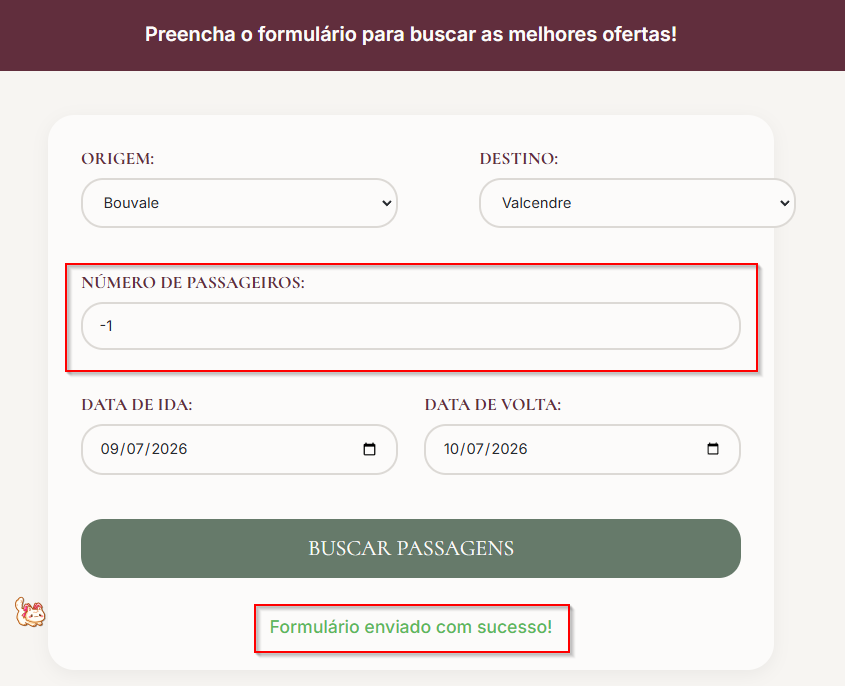
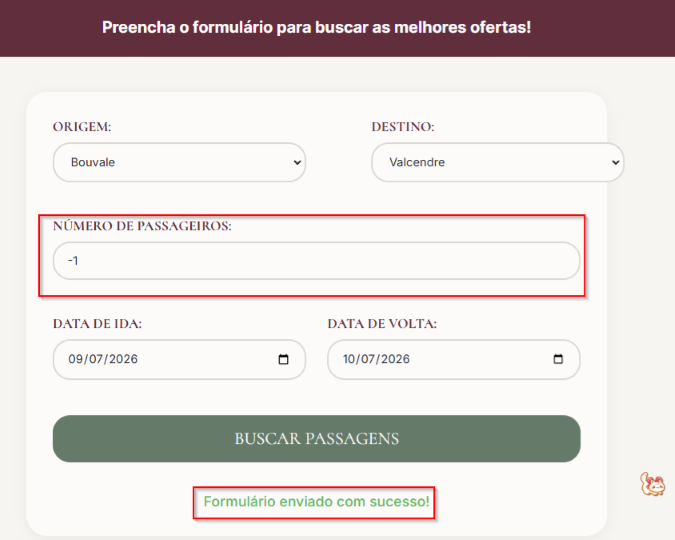
Ajusta formatacao do markdown e redimensiona imagens

diff --git a/docs/bisoutravel-qa-docs.md b/docs/bisoutravel-qa-docs.md
@@ -7,6 +7,7 @@ Jesse Rother 🌸 · [GitHub](https://github.com/pink-bowie)
 ## TC01 — Busca de passagens com dados válidos
 
 **ID:** TC01
+
 **Pré-condições:** Estar na página index.html
 
 **Passos:**
@@ -15,7 +16,9 @@ Jesse Rother 🌸 · [GitHub](https://github.com/pink-bowie)
 3. Clicar em "Buscar Passagens"
 
 **Resultado Esperado:** Mensagem "Formulário enviado com sucesso!" é exibida.
+
 **Resultado Obtido:** Mensagem "Formulário enviado com sucesso!" foi exibida.
+
 **Status:** ✅ Passou
 
 ---
@@ -23,6 +26,7 @@ Jesse Rother 🌸 · [GitHub](https://github.com/pink-bowie)
 ## TC02 — "Número de Passageiros" aceita valores negativos
 
 **ID:** TC02
+
 **Pré-condições:** Estar na página bugs.html
 
 **Passos:**
@@ -31,7 +35,9 @@ Jesse Rother 🌸 · [GitHub](https://github.com/pink-bowie)
 3. Clicar em "Buscar Passagens"
 
 **Resultado Esperado:** O campo não deve aceitar valores menores que 1. O formulário não deve ser enviado.
+
 **Resultado Obtido:** Mensagem "Formulário enviado com sucesso!" foi exibida com o valor -1 no campo.
+
 **Status:** ❌ Falhou
 
 ---
@@ -39,8 +45,11 @@ Jesse Rother 🌸 · [GitHub](https://github.com/pink-bowie)
 ## DR01 — "Número de Passageiros" aceita valores negativos
 
 **ID:** DR01
+
 **Ambiente:** Chrome 127, Resolução 1920x1080
+
 **Pré-condições:** Estar na página bugs.html
+
 **TC Relacionado:** TC02
 
 **Passos para Reprodução:**
@@ -49,10 +58,14 @@ Jesse Rother 🌸 · [GitHub](https://github.com/pink-bowie)
 3. Clicar em "Buscar Passagens"
 
 **Resultado Esperado:** O campo não deve aceitar valores menores que 1. O formulário não deve ser enviado.
+
 **Resultado Obtido:** Mensagem "Formulário enviado com sucesso!" foi exibida com o valor -1 no campo.
+
 **Evidência:**
 ![DR01 - Passageiros negativos](../img/dr01-passageiros-negativos.png)
+
 **Prioridade:** High
+
 **Status:** Aberto
 
 ---
@@ -60,6 +73,7 @@ Jesse Rother 🌸 · [GitHub](https://github.com/pink-bowie)
 ## TC03 — Cidades iguais em "Origem" e "Destino"
 
 **ID:** TC03
+
 **Pré-condições:** Estar na página bugs.html
 
 **Passos:**
@@ -68,7 +82,9 @@ Jesse Rother 🌸 · [GitHub](https://github.com/pink-bowie)
 3. Clicar em "Buscar Passagens"
 
 **Resultado Esperado:** O sistema deve bloquear a seleção de cidades iguais.
+
 **Resultado Obtido:** Mensagem "Formulário enviado com sucesso!" foi exibida com cidades iguais selecionadas.
+
 **Status:** ❌ Falhou
 
 ---
@@ -76,8 +92,11 @@ Jesse Rother 🌸 · [GitHub](https://github.com/pink-bowie)
 ## DR02 — Cidades iguais em "Origem" e "Destino"
 
 **ID:** DR02
+
 **Ambiente:** Chrome 127, Resolução 1920x1080
+
 **Pré-condições:** Estar na página bugs.html
+
 **TC Relacionado:** TC03
 
 **Passos para Reprodução:**
@@ -86,10 +105,14 @@ Jesse Rother 🌸 · [GitHub](https://github.com/pink-bowie)
 3. Clicar em "Buscar Passagens"
 
 **Resultado Esperado:** O sistema deve bloquear a seleção de cidades iguais.
+
 **Resultado Obtido:** Mensagem "Formulário enviado com sucesso!" foi exibida com cidades iguais selecionadas.
+
 **Evidência:**
 ![DR02 - Cidades iguais](../img/dr02-cidades-iguais.png)
+
 **Prioridade:** High
+
 **Status:** Aberto
 
 ---
@@ -97,13 +120,16 @@ Jesse Rother 🌸 · [GitHub](https://github.com/pink-bowie)
 ## TC04 — Alinhamento incorreto no campo de Destino
 
 **ID:** TC04
+
 **Pré-condições:** Estar na página bugs.html
 
 **Passos:**
 1. Observar a posição do campo "Destino" em relação aos demais campos
 
 **Resultado Esperado:** O campo "Destino" deve estar centralizado e alinhado verticalmente com os demais campos.
+
 **Resultado Obtido:** O campo "Destino" está deslocado e desalinhado para a direita.
+
 **Status:** ❌ Falhou
 
 ---
@@ -111,18 +137,25 @@ Jesse Rother 🌸 · [GitHub](https://github.com/pink-bowie)
 ## DR03 — Alinhamento incorreto no campo de Destino
 
 **ID:** DR03
+
 **Ambiente:** Chrome 127, Resolução 1920x1080
+
 **Pré-condições:** Estar na página bugs.html
+
 **TC Relacionado:** TC04
 
 **Passos para Reprodução:**
 1. Observar a posição do campo "Destino" em relação aos demais campos
 
 **Resultado Esperado:** O campo "Destino" deve estar centralizado e alinhado verticalmente com os demais campos.
+
 **Resultado Obtido:** O campo "Destino" está deslocado e desalinhado para a direita.
+
 **Evidência:**
 ![DR03 - Desalinhamento](../img/dr03-desalinhamento.png)
+
 **Prioridade:** Low
+
 **Status:** Aberto
 
 ---